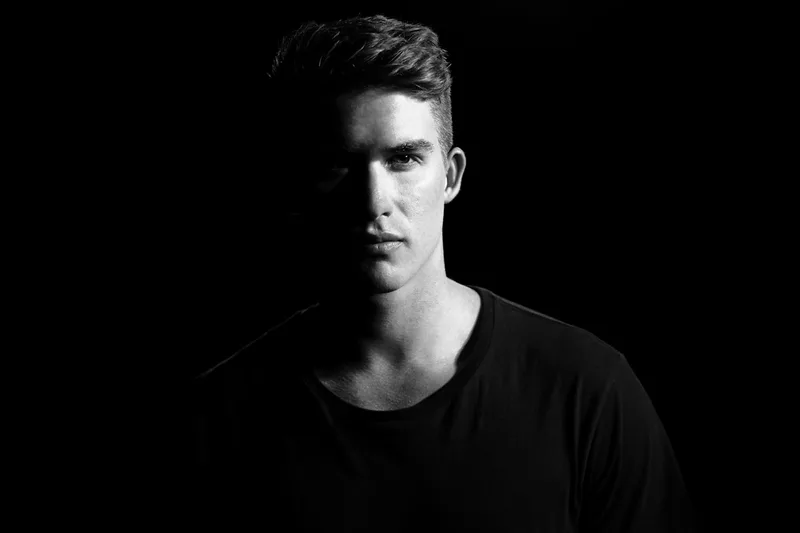
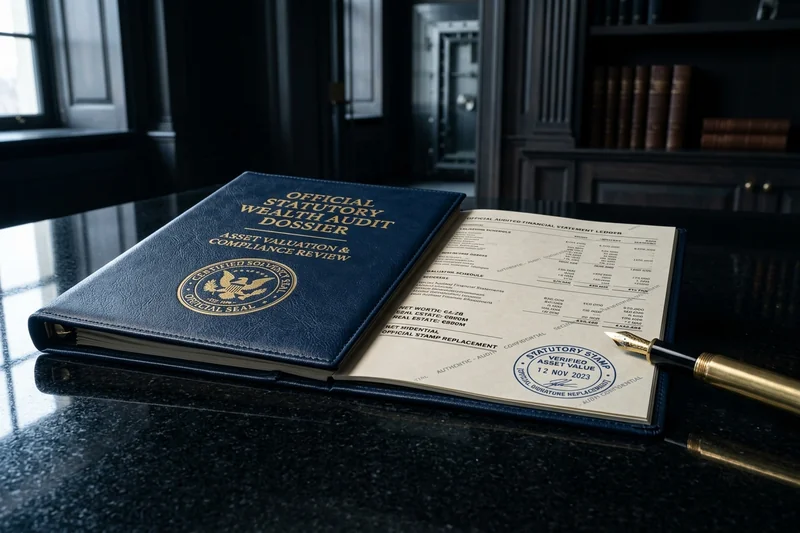
feat(landing): expand hero accordion to 8 panels with Option D hybrid layout and institutional imagery

diff --git a/frontend/lib/features/landing/landing_sections.dart b/frontend/lib/features/landing/landing_sections.dart
@@ -1143,6 +1143,24 @@ class _HeroAccordionVisualState extends State<_HeroAccordionVisual> {
     ),
     _AccordionPanelData(
       id: '06',
+      title: 'Lenders Independent Engineer',
+      category: 'PROJECT MONITORING',
+      description: 'Project Progress, Fund Utilization & Techno-Economic Viability',
+      imageAsset: 'assets/images/hero/lenders_independent_engineer.webp',
+      icon: Icons.account_balance_rounded,
+      baseColor: Color(0xFF0F172A),
+    ),
+    _AccordionPanelData(
+      id: '07',
+      title: 'Chartered Engineer Certificates',
+      category: 'STATUTORY CE AUDIT',
+      description: 'Customs Clearance, EPCG Scheme, Plant Life & Industrial Certification',
+      imageAsset: 'assets/images/hero/chartered_engineer_certificates.webp',
+      icon: Icons.workspace_premium_rounded,
+      baseColor: Color(0xFF1E293B),
+    ),
+    _AccordionPanelData(
+      id: '08',
       title: 'Technical Due Diligence',
       category: 'TECHNICAL AUDIT',
       description: 'Engineering Review, Condition Assessment & Risk Analysis',
@@ -1307,7 +1325,7 @@ class _HeroAccordionVisualState extends State<_HeroAccordionVisual> {
   }
 
   Widget _buildHorizontalAccordion(double totalWidth, double height) {
-    const double spacing = 6.0;
+    const double spacing = 4.5;
     final double totalSpacing = spacing * (_panels.length - 1);
     final double availWidth = totalWidth - totalSpacing;
     // Exact proportional width calculations: active panel ~44%, inactive evenly split remaining space
@@ -1386,33 +1404,33 @@ class _HeroAccordionVisualState extends State<_HeroAccordionVisual> {
                       ),
                     ),
 
-                    // Top Glass Pill: Category Indicator
-                    Positioned(
-                      top: 14,
-                      left: 14,
-                      right: 14,
-                      child: Row(
-                        mainAxisAlignment: MainAxisAlignment.spaceBetween,
-                        children: [
-                          Container(
-                            padding: const EdgeInsets.symmetric(horizontal: 8, vertical: 4),
-                            decoration: BoxDecoration(
-                              color: Colors.black.withValues(alpha: 0.35),
-                              borderRadius: BorderRadius.circular(100),
-                              border: Border.all(
-                                color: Colors.white.withValues(alpha: 0.15),
-                                width: 0.8,
-                              ),
-                            ),
-                            child: Row(
-                              mainAxisSize: MainAxisSize.min,
-                              children: [
-                                Icon(
-                                  panel.icon,
-                                  size: 13,
-                                  color: isActive ? const Color(0xFF5EEAD4) : Colors.white70,
+                    // Top Indicator: Active Rich Glass Pill vs Inactive Option D Centered Micro-ID
+                    if (isActive)
+                      Positioned(
+                        top: 14,
+                        left: 14,
+                        right: 14,
+                        child: Row(
+                          mainAxisAlignment: MainAxisAlignment.spaceBetween,
+                          children: [
+                            Container(
+                              padding: const EdgeInsets.symmetric(horizontal: 8, vertical: 4),
+                              decoration: BoxDecoration(
+                                color: Colors.black.withValues(alpha: 0.35),
+                                borderRadius: BorderRadius.circular(100),
+                                border: Border.all(
+                                  color: Colors.white.withValues(alpha: 0.15),
+                                  width: 0.8,
                                 ),
-                                if (isActive) ...[
+                              ),
+                              child: Row(
+                                mainAxisSize: MainAxisSize.min,
+                                children: [
+                                  Icon(
+                                    panel.icon,
+                                    size: 13,
+                                    color: const Color(0xFF5EEAD4),
+                                  ),
                                   const SizedBox(width: 6),
                                   Text(
                                     panel.category,
@@ -1424,21 +1442,38 @@ class _HeroAccordionVisualState extends State<_HeroAccordionVisual> {
                                     ),
                                   ),
                                 ],
-                              ],
+                              ),
                             ),
-                          ),
-                          Text(
+                            Text(
+                              panel.id,
+                              style: GoogleFonts.montserrat(
+                                fontSize: 11,
+                                fontWeight: FontWeight.w700,
+                                color: Colors.white,
+                                letterSpacing: 0.5,
+                              ),
+                            ),
+                          ],
+                        ),
+                      )
+                    else
+                      // Inactive Option D: Centered Micro-ID (Zero Horizontal Margin Collision)
+                      Positioned(
+                        top: 16,
+                        left: 0,
+                        right: 0,
+                        child: Center(
+                          child: Text(
                             panel.id,
                             style: GoogleFonts.montserrat(
                               fontSize: 11,
                               fontWeight: FontWeight.w700,
-                              color: isActive ? Colors.white : Colors.white38,
+                              color: Colors.white38,
                               letterSpacing: 0.5,
                             ),
                           ),
-                        ],
+                        ),
                       ),
-                    ),
 
                     // Active Detailed Content (Calm, Editorial, Maximum Clarity)
                     if (isActive)
@@ -1565,8 +1600,8 @@ class _HeroAccordionVisualState extends State<_HeroAccordionVisual> {
                   Positioned(
                     left: 14,
                     right: 14,
-                    top: 10,
-                    bottom: 10,
+                    top: isActive ? 10 : 6,
+                    bottom: isActive ? 10 : 6,
                     child: Row(
                       crossAxisAlignment: CrossAxisAlignment.center,
                       children: [
